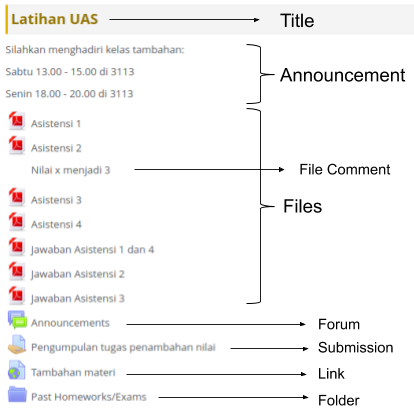
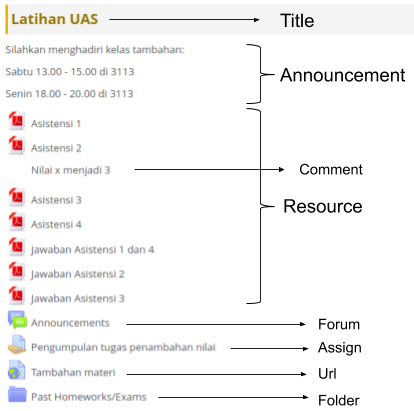
Refactor file to content and fix content type

Changed region(s): [[0.7536, 0.8175, 0.9565, 0.9343], [0.7246, 0.3796, 0.9565, 0.438], [0.6957, 0.4672, 0.8986, 0.5255]]

diff --git a/test.js b/test.js
@@ -79,9 +79,9 @@ it("can get course detail", async () => {
     .get("/course/view.php?id=1")
     .reply(200, courseDetail);
 
-  const courseInfo = await courses[0].fetchDetail();
+  const courseDetail = await courses[0].fetchDetail();
 
-  expect(Object.keys(courseInfo)).to.deep.equal([
+  expect(Object.keys(courseDetail)).to.deep.equal([
     "General",
     "Mekanika",
     "Latihan Soal Mekanika",
@@ -91,47 +91,112 @@ it("can get course detail", async () => {
     "Topic 6"
   ]);
 
-  expect(courseInfo["General"]).to.deep.equal({
+  expect(courseDetail["General"]).to.deep.equal({
     announcement: "",
-    files: [
+    content: [
       {
-        fileType: "Forum",
+        type: "forum",
         link: "https://scele.cs.ui.ac.id/mod/forum/view.php?id=21758",
-        fileName: "Announcements",
+        title: "Announcements",
         comment: ""
       },
       {
-        fileType: "File",
+        type: "resource",
         link: "https://scele.cs.ui.ac.id/mod/resource/view.php?id=22146",
-        fileName: "Detail Silabus",
+        title: "Detail Silabus",
         comment: ""
       },
       {
-        fileType: "File",
+        type: "resource",
         link: "https://scele.cs.ui.ac.id/mod/resource/view.php?id=22794",
-        fileName: "Update Silabus",
+        title: "Update Silabus",
         comment: ""
       },
       {
-        fileType: "Choice",
+        type: "choice",
         link: "https://scele.cs.ui.ac.id/mod/choice/view.php?id=23409",
-        fileName: "Jadwal Asistensi Kelas A",
+        title: "Jadwal Asistensi Kelas A",
         comment: ""
       },
       {
-        fileType: "Choice",
+        type: "choice",
         link: "https://scele.cs.ui.ac.id/mod/choice/view.php?id=24468",
-        fileName: "poling asistensi kelas C",
+        title: "poling asistensi kelas C",
         comment: ""
       }
     ]
   });
 
-  expect(courseInfo["Latihan UAS"].announcement).to.equal(
+  expect(courseDetail["Latihan UAS"].announcement).to.equal(
     "Silahkan menghadiri kelas tambahan:\nSabtu 13.00 - 15.00 di 3113\nSenin 18.00 - 20.00 di 3113"
   );
 
-  expect(courseInfo["Latihan UAS"].files[1].comment).to.equal(
-    "Nilai x menjadi 3"
-  );
+  expect(courseDetail["Latihan UAS"].content).to.deep.equal([
+    {
+      title: "Asistensi 1",
+      link: "https://scele.cs.ui.ac.id/mod/resource/view.php?id=27485",
+      comment: "",
+      type: "resource"
+    },
+    {
+      title: "Asistensi 2",
+      link: "https://scele.cs.ui.ac.id/mod/resource/view.php?id=27486",
+      comment: "Nilai x menjadi 3",
+      type: "resource"
+    },
+    {
+      title: "Asistensi 3",
+      link: "https://scele.cs.ui.ac.id/mod/resource/view.php?id=27487",
+      comment: "",
+      type: "resource"
+    },
+    {
+      title: "Asistensi 4",
+      link: "https://scele.cs.ui.ac.id/mod/resource/view.php?id=27488",
+      comment: "",
+      type: "resource"
+    },
+    {
+      title: "Jawaban Asistensi 1 dan 4",
+      link: "https://scele.cs.ui.ac.id/mod/resource/view.php?id=27489",
+      comment: "",
+      type: "resource"
+    },
+    {
+      title: "Jawaban Asistensi 2",
+      link: "https://scele.cs.ui.ac.id/mod/resource/view.php?id=27490",
+      comment: "",
+      type: "resource"
+    },
+    {
+      title: "Jawaban Asistensi 3",
+      link: "https://scele.cs.ui.ac.id/mod/resource/view.php?id=27491",
+      comment: "",
+      type: "resource"
+    },
+    {
+      title: "Announcements",
+      link: "https://scele.cs.ui.ac.id/mod/forum/view.php?id=21758",
+      comment: "",
+      type: "forum"
+    },
+    {
+      title: "Pengumpulan tugas penambahan nilai",
+      link: "https://scele.cs.ui.ac.id/mod/assign/view.php?id=32661",
+      comment: "",
+      type: "assign"
+    },
+    {
+      title: "Tambahan materi",
+      link: "https://scele.cs.ui.ac.id/mod/url/view.php?id=28296",
+      comment: "",
+      type: "url"
+    },
+    {
+      title: "Past Homeworks/Exams",
+      link: "https://scele.cs.ui.ac.id/mod/folder/view.php?id=28302",
+      comment: "",
+      type: "folder"
+    }
+  ]);
 });

diff --git a/index.js b/index.js
@@ -34,26 +34,24 @@ const updateProfile = $ => {
 };
 
 const fetchContent = ($, contentElement) => {
-  files = [];
+  content = [];
   $(contentElement)
-    .find(".activityinstance")
+    .find(".activity")
     .each((_, element) => {
-      files.push({
-        fileName: $(element)
+      content.push({
+        title: $(element)
           .find(".instancename")
           .html()
           .split("<")[0],
-        fileType: $(element)
-          .find(".accesshide")
-          .text()
-          .trim(),
         link: $(element)
           .find("a")
           .attr("href"),
         comment: $(element)
-          .parent()
           .find(".contentafterlink")
-          .text()
+          .text(),
+        type: $(element)
+          .attr("class")
+          .split(" ")[1]
       });
     });
 
@@ -61,7 +59,7 @@ const fetchContent = ($, contentElement) => {
     .find(".summary")
     .text();
 
-  return { files, announcement };
+  return { content, announcement };
 };
 
 const fetchDetail = async link => {
